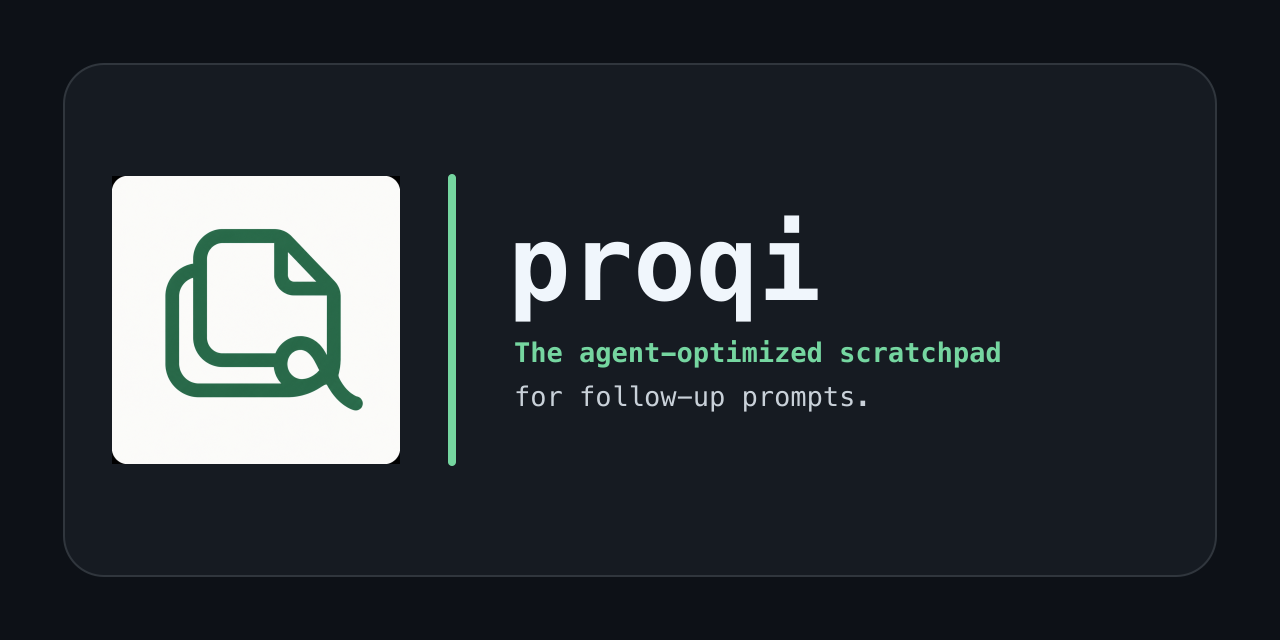
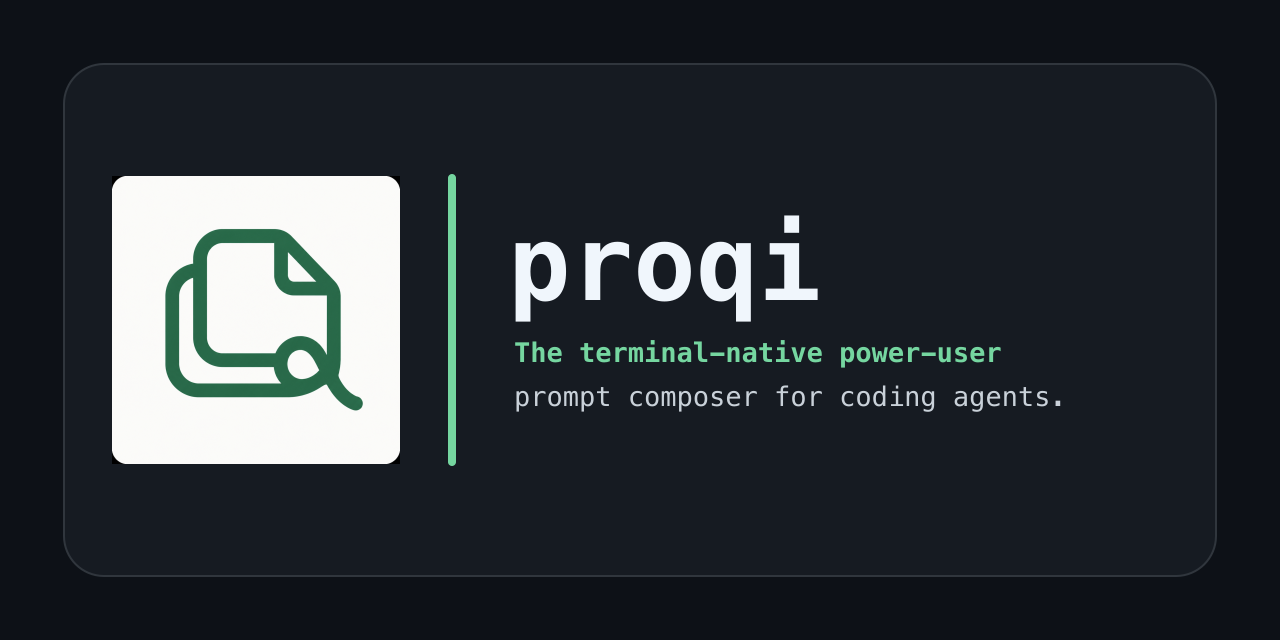
docs: position Proqi as prompt composer

Changed region(s): [[0.4062, 0.5312, 0.8125, 0.6562]]

diff --git a/README.md b/README.md
@@ -5,8 +5,8 @@
 <h1 align="center">Proqi</h1>
 
 <p align="center">
-  <strong>The agent-optimized scratchpad for follow-up prompts.</strong><br>
-  Keep prompts editable beside a coding-agent session, then copy or submit them when the agent is ready.
+  <strong>The terminal-native power-user prompt composer.</strong><br>
+  Draft, refine, combine, and deliver exact prompts while your coding agents keep working.
 </p>
 
 <p align="center">
@@ -19,39 +19,80 @@
 </p>
 
 <p align="center">
-  <img src="https://raw.githubusercontent.com/oborchers/proqi/main/assets/proqi-demo.gif" width="1000" alt="Proqi browsing rich prompt context, deleting a temporary thought, creating and editing a prompt, reordering it, and copying a multi-selection">
+  <img src="https://raw.githubusercontent.com/oborchers/proqi/main/assets/proqi-demo.gif" width="1000" alt="Proqi refining independent prompt thoughts, reordering them, and copying an ordered selection">
 </p>
 
-Proqi is the thoughtpad for humans working with coding agents. Follow-up prompts
-accumulate while those agents are working. Keeping them in a generic editor
-means another application, more context switching, and no direct relationship
-to the active agent runtime. Proqi provides a local terminal scratchpad beside
-the session. Existing and new prompts remain editable until you copy one or
-submit it through a verified integration.
+[Why Proqi](#compose-before-you-interrupt) ·
+[Workflow](#one-board-from-rough-context-to-exact-prompt) ·
+[Install](#install) ·
+[Controls](#board-controls) ·
+[Commands](#json-cli-and-proqi-skill) ·
+[Resume](#resume-and-organize-sessions) ·
+[Screenshots](#screenshots-files-and-clipboard-safety) ·
+[Privacy](#updates-and-privacy) ·
+[Configuration](#configuration) ·
+[Compatibility](#best-with-herdr)
 
-Proqi works standalone in any supported terminal. It works best with
-[Herdr](https://github.com/herdrdev/herdr), where it can discover verified
-adjacent coding agents and submit the selected thought directly without the
-manual clipboard handoff.
+Proqi is a terminal-native power-user prompt composer for developers coordinating
+multiple coding agents. It gives each session a durable, editable board for rough
+thoughts, alternatives, screenshots, and exact context, then turns the board into
+one ordered prompt when you are ready.
+
+## Compose before you interrupt
+
+Codex, Claude Code, and similar CLI harnesses are built around one active
+conversational stream. That is the right surface for working with the agent in
+front of you. It is less comfortable for drafting a later prompt, preserving two
+alternatives, combining several thoughts, managing multiple screenshots, or
+steering a different agent while the current one is still working. Rough material
+often ends up copied between the active composer and temporary documents.
+
+Proqi keeps that preparation in a quiet local board beside the conversation.
+Capture independent thoughts as they occur, edit their exact text, recover edits
+and board operations after a restart, reorder or range-select them, and concatenate
+the whole board for one deliberate handoff. Local skill, command, and agent
+discovery helps you author supported invocation tokens without executing them.
+On macOS, one board can also act as a screenshot inbox: captures become
+annotatable thoughts without dragging files across panes or risking a drop into
+the agent composer.
+
+The standalone workflow works in any supported terminal: compose, concatenate,
+and move prompts through the native clipboard. Native adjacent-agent submission is
+available only through a verified [Herdr](https://github.com/herdrdev/herdr)
+integration. Proqi does not claim native delivery to arbitrary terminals, agents,
+or multiplexers.
 
 <p align="center">
-  <img src="https://raw.githubusercontent.com/oborchers/proqi/main/assets/proqi-problem.svg" width="1000" alt="Proqi keeps follow-up prompts editable and sends the selected prompt toward a coding-agent terminal">
+  <img src="https://raw.githubusercontent.com/oborchers/proqi/main/assets/proqi-problem.svg" width="1000" alt="Proqi keeps prompt composition separate from the active agent conversation, with optional verified delivery through Herdr">
 </p>
+
+## One board, from rough context to exact prompt
+
+1. Keep working in your browser or editor while the coding agent continues its
+   current turn.
+2. Capture rough text and macOS screenshots into Proqi. Each remains an
+   independent thought, so screenshots can be annotated and alternatives can
+   coexist without entering the agent conversation.
+3. Refine the exact text, discover local invocations, select a contiguous range,
+   and reorder the thoughts into the prompt you mean to send.
+4. Copy the concatenated board for any destination, or submit the exact ordered
+   board to a verified adjacent agent through Herdr—without first interrupting
+   that agent to draft it there.
 
 ## What Proqi gives you
 
 | Need | Proqi behavior |
 | --- | --- |
-| Capture the next thought | Paste in board mode or click `+ New thought` to create and focus it |
-| Edit without compromise | Multiline Unicode editing, selection, logical-line deletion, and persistent editor undo |
+| Capture thoughts independently | Paste text or create a thought without committing it to a conversation |
+| Collect macOS screenshots | Turn captures into annotatable thoughts in one board instead of dragging them across panes |
+| Refine exact prompt text | Multiline Unicode editing, selection, logical-line deletion, and persistent editor undo |
+| Preserve alternatives | Duplicate, revise, reorder, or remove thoughts with durable board undo and recovery |
+| Compose the final prompt | Use range selection or the whole board, concatenated in visible order with one blank line between thoughts |
 | Reuse local agent tooling | Complete discovered skills, commands, and invokable agents while authoring without executing them |
-| Keep prompts flexible | Reorder or duplicate by keyboard, mouse, or drag, then collapse long context without changing its content |
-| Act on several prompts | Select thoughts with `Space`, then copy, cut, delete, collapse, or submit them as one ordered prompt |
 | Survive interruption | Autosave, exact resume guidance, session search, recovery export, and undo after restart |
-| Work beside any agent | Native copy and non-destructive cut work without an integration or account |
-| Pass local context | Drop files as paths or paste clipboard images into private session storage |
+| Work with any destination | Native copy and non-destructive cut work without an integration or account |
 | Correct the wrong board | Send a thought to another named Proqi session, optionally removing it after delivery |
-| Submit directly when verified | Optional Herdr delivery to eligible coding-agent panes in all four directions |
+| Submit directly when verified | Optional Herdr delivery to eligible adjacent coding-agent panes in all four directions |
 | Automate safely | Versioned JSON, typed identifiers, idempotent mutations, and an explicit-invocation Proqi skill |
 
 The board is a responsive one-column interface. Thoughts use their natural
@@ -266,7 +307,13 @@ The session browser searches optional names, directory context, and thought
 content. It ranks the current directory without hiding other results and shows
 active, resumable, recovered, and trashed states in narrow and wide layouts.
 
-## Files, images, and clipboard safety
+## Screenshots, files, and clipboard safety
+
+On macOS, the screenshot inbox turns captures into private, annotatable thoughts
+on one board. Keep working in the browser or editor, take the screenshot, then
+return to Proqi to add the prompt text around it. Nothing needs to be dragged
+across terminal panes, where a file could otherwise land in the adjacent agent's
+composer. Proqi does not upload or analyze screenshot content.
 
 A terminal file drop normally arrives as bracketed text. Proqi converts it only
 when the complete payload resolves unambiguously to existing absolute files.
